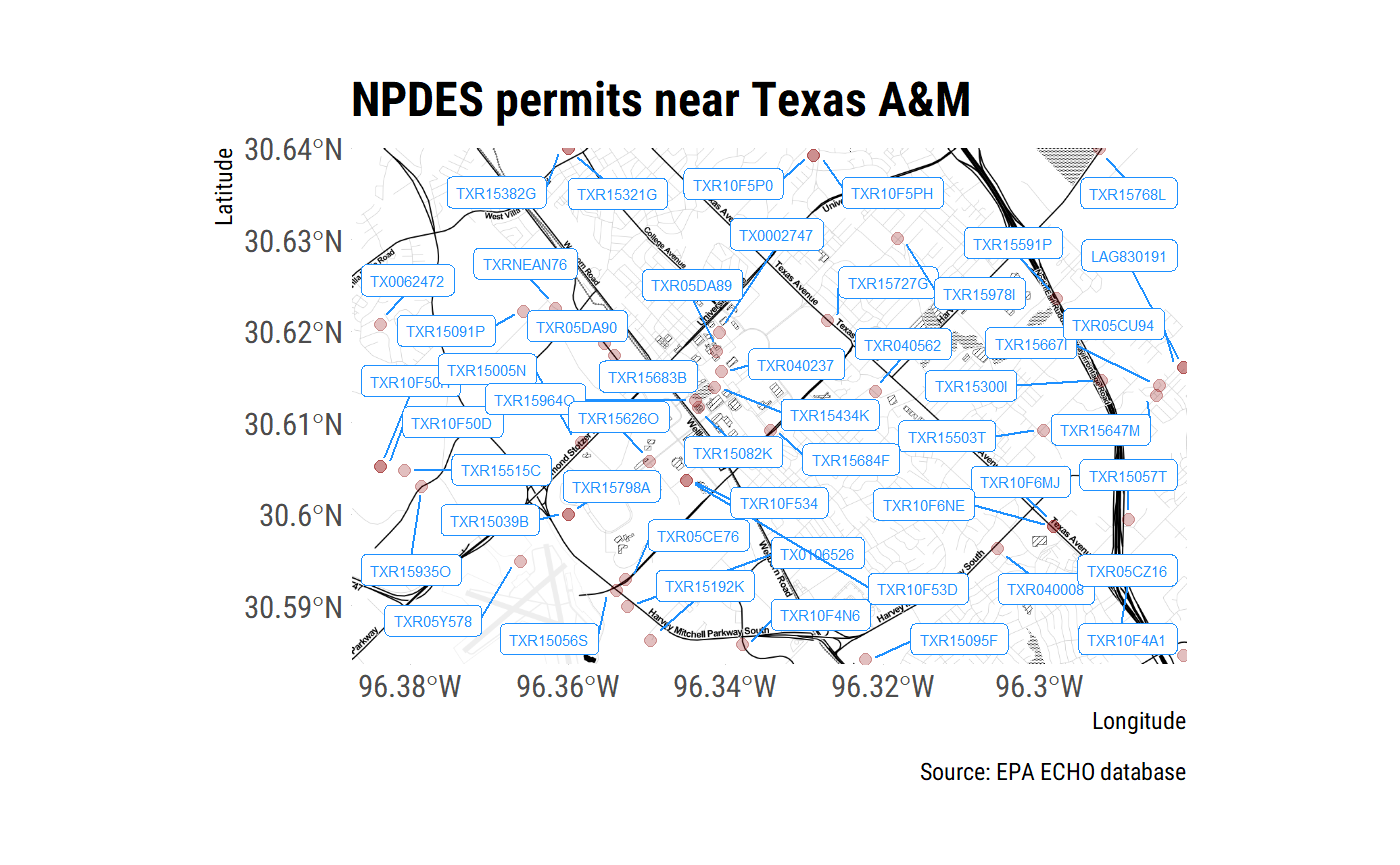
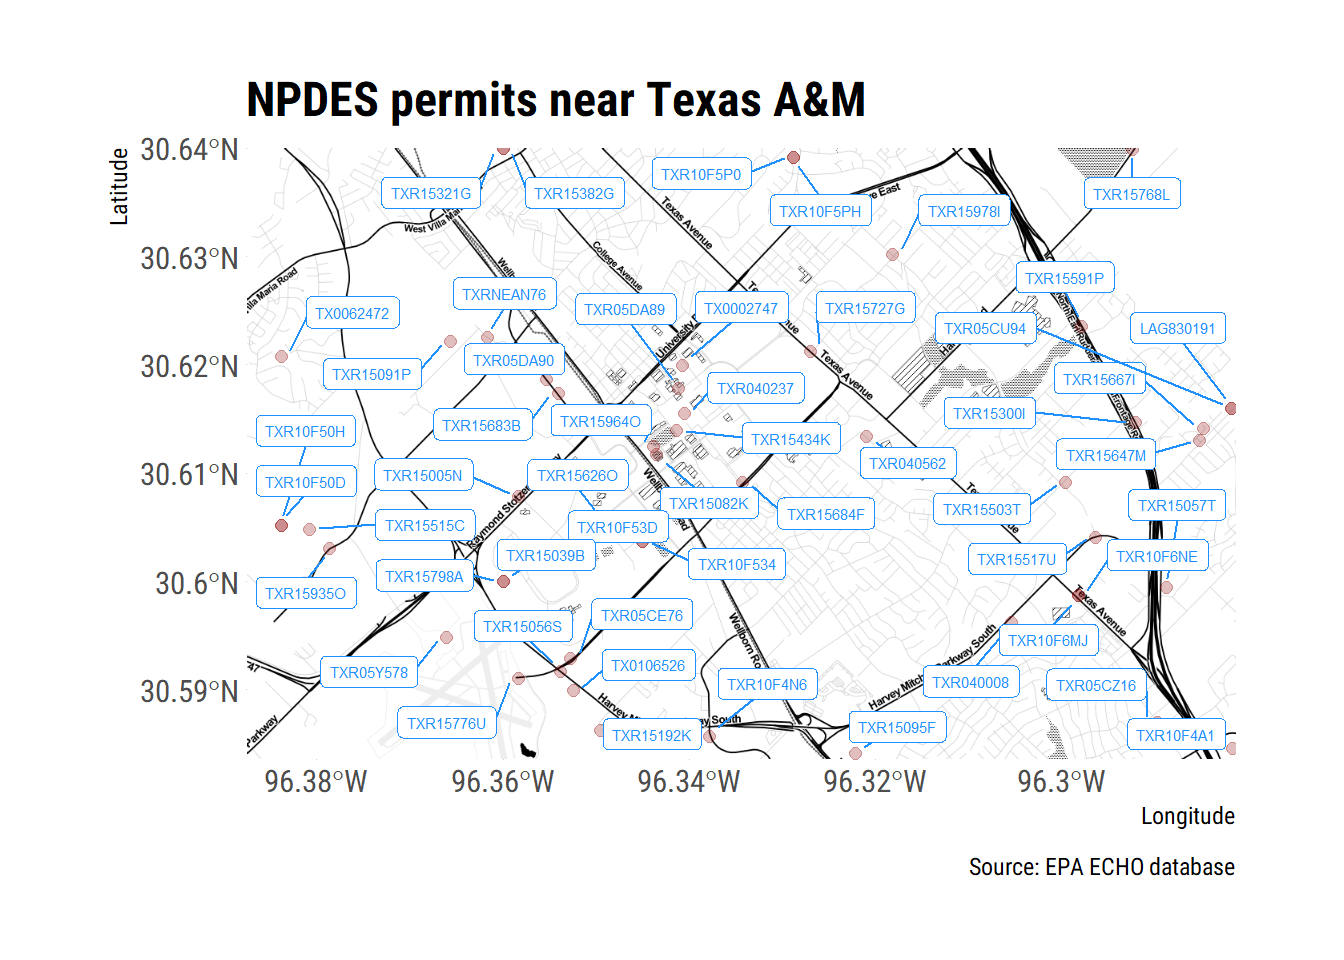
:hammer: Build readme

Changed region(s): [[0.0625, 0.0624, 0.9375, 0.8428], [0.6562, 0.8428, 0.9375, 0.9364]]

diff --git a/README.md b/README.md
@@ -70,7 +70,7 @@ head(df)
 #> 3 AT HOME -~ TXR15591P 2301 EARL~ COLLEG~ TX       ""               77845~
 #> 4 BEE CREEK~ TXR15647M THE SITE ~ COLLEG~ TX       ""               77845 
 #> 5 BOSSIER P~ LAG830191 3228 BARK~ BENTON  LA       ""               71111 
-#> 6 BROADSTON~ TXR15515C 8000 ATLA~ BRYAN   TX       ""               77807~
+#> 6 BROADSTON~ TXR10F50H NW OF ATL~ BRYAN   TX       ""               77807 
 #> # ... with 19 more variables: MasterExternalPermitNmbr <chr>,
 #> #   RegistryID <chr>, CWPCounty <chr>, CWPEPARegion <chr>,
 #> #   FacDerivedHuc <chr>, FacLat <dbl>, FacLong <dbl>,
@@ -107,7 +107,7 @@ head(df)
 #> 3 AT HOME - COLLE~ TXR1559~ 12070103        30.6   -96.3                NA
 #> 4 BEE CREEK SANIT~ TXR1564~ 12070103        30.6   -96.3                NA
 #> 5 BOSSIER PARISH ~ LAG8301~ 12070103        30.6   -96.3                NA
-#> 6 BROADSTONE TRAD~ TXR1551~ 12070101        30.6   -96.4                NA
+#> 6 BROADSTONE TRAD~ TXR10F5~ 12070101        30.6   -96.4                NA
 ```
 
 When returned as sf dataframes, the data is suitable for immediate
@@ -187,7 +187,7 @@ ggplot(df) +
 library(echor)
 
 date()
-#> [1] "Mon Jan 28 15:33:59 2019"
+#> [1] "Fri Feb 01 20:21:37 2019"
 
 devtools::test()
 #> v | OK F W S | Context
@@ -202,7 +202,7 @@ devtools::test()
 | |  7       | core functions return expected errors
 / |  8       | core functions return expected errors
 - |  9       | core functions return expected errors
-v |  9       | core functions return expected errors [0.9 s]
+v |  9       | core functions return expected errors [1.1 s]
 #> 
 / |  0       | core functions return expected objects
 - |  1       | core functions return expected objects
@@ -216,25 +216,15 @@ v |  9       | core functions return expected errors [0.9 s]
 - |  9       | core functions return expected objects
 \ | 10       | core functions return expected objects
 | | 11       | core functions return expected objects
-/ | 11 1     | core functions return expected objects
-x | 11 1     | core functions return expected objects [8.2 s]
-#> -----------------------------------------------------------------------------------------------------
-#> test-expected_objects.R:49: error: core functions return sf
-#> No 'type' member at object index 0 - invalid GeoJSON
-#> 1: expect_is(echoAirGetFacilityInfo(p_pid = "NC0000003706500036", output = "sf", verbose = FALSE), "sf") at C:\BACKUP\Documents\Data-Analysis-Projects\echor/tests/testthat/test-expected_objects.R:49
-#> 2: quasi_label(enquo(object), label)
-#> 3: eval_bare(get_expr(quo), get_env(quo))
-#> 4: echoAirGetFacilityInfo(p_pid = "NC0000003706500036", output = "sf", verbose = FALSE)
-#> 5: geojsonsf::geojson_sf(buildOutput) at C:\BACKUP\Documents\Data-Analysis-Projects\echor/R/air.R:106
-#> 6: geojson_sf.character(buildOutput)
-#> 7: rcpp_geojson_to_sf(geojson, expand_geometries)
-#> -----------------------------------------------------------------------------------------------------
+/ | 12       | core functions return expected objects
+- | 13       | core functions return expected objects
+v | 13       | core functions return expected objects [10.0 s]
 #> 
-#> == Results ==========================================================================================
-#> Duration: 9.1 s
+#> == Results =================================================================================================
+#> Duration: 11.1 s
 #> 
-#> OK:       20
-#> Failed:   1
+#> OK:       22
+#> Failed:   0
 #> Warnings: 0
 #> Skipped:  0
 ```
